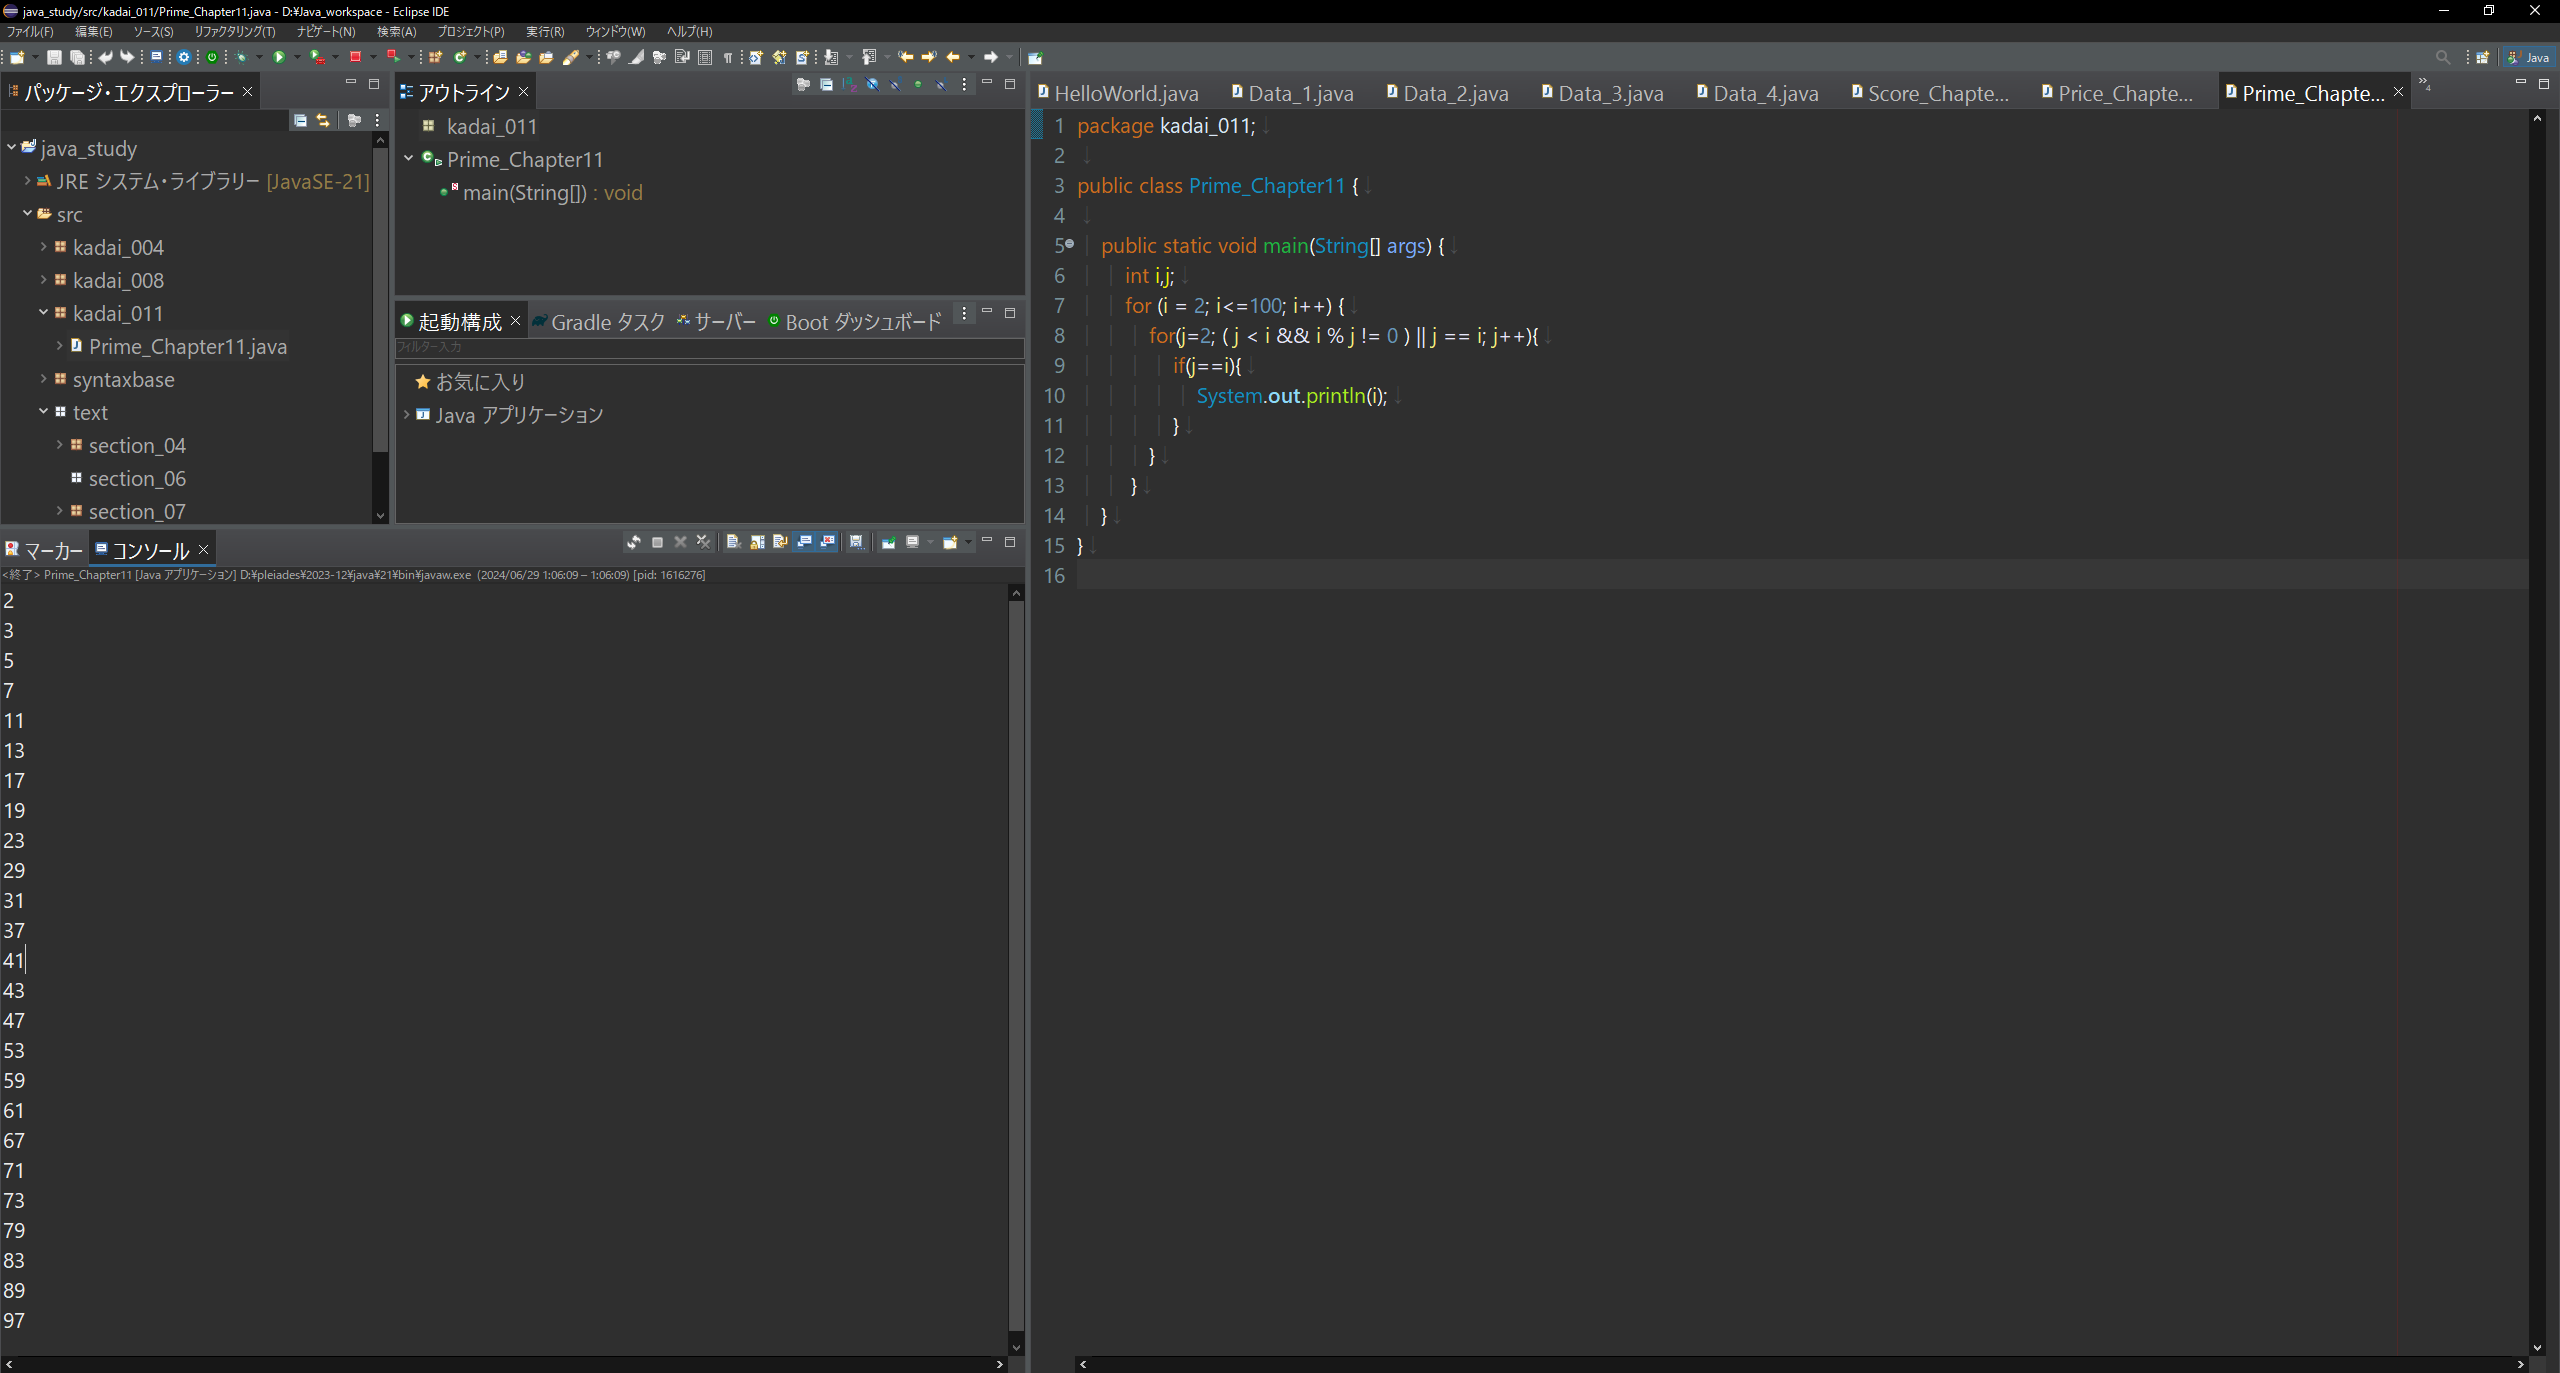
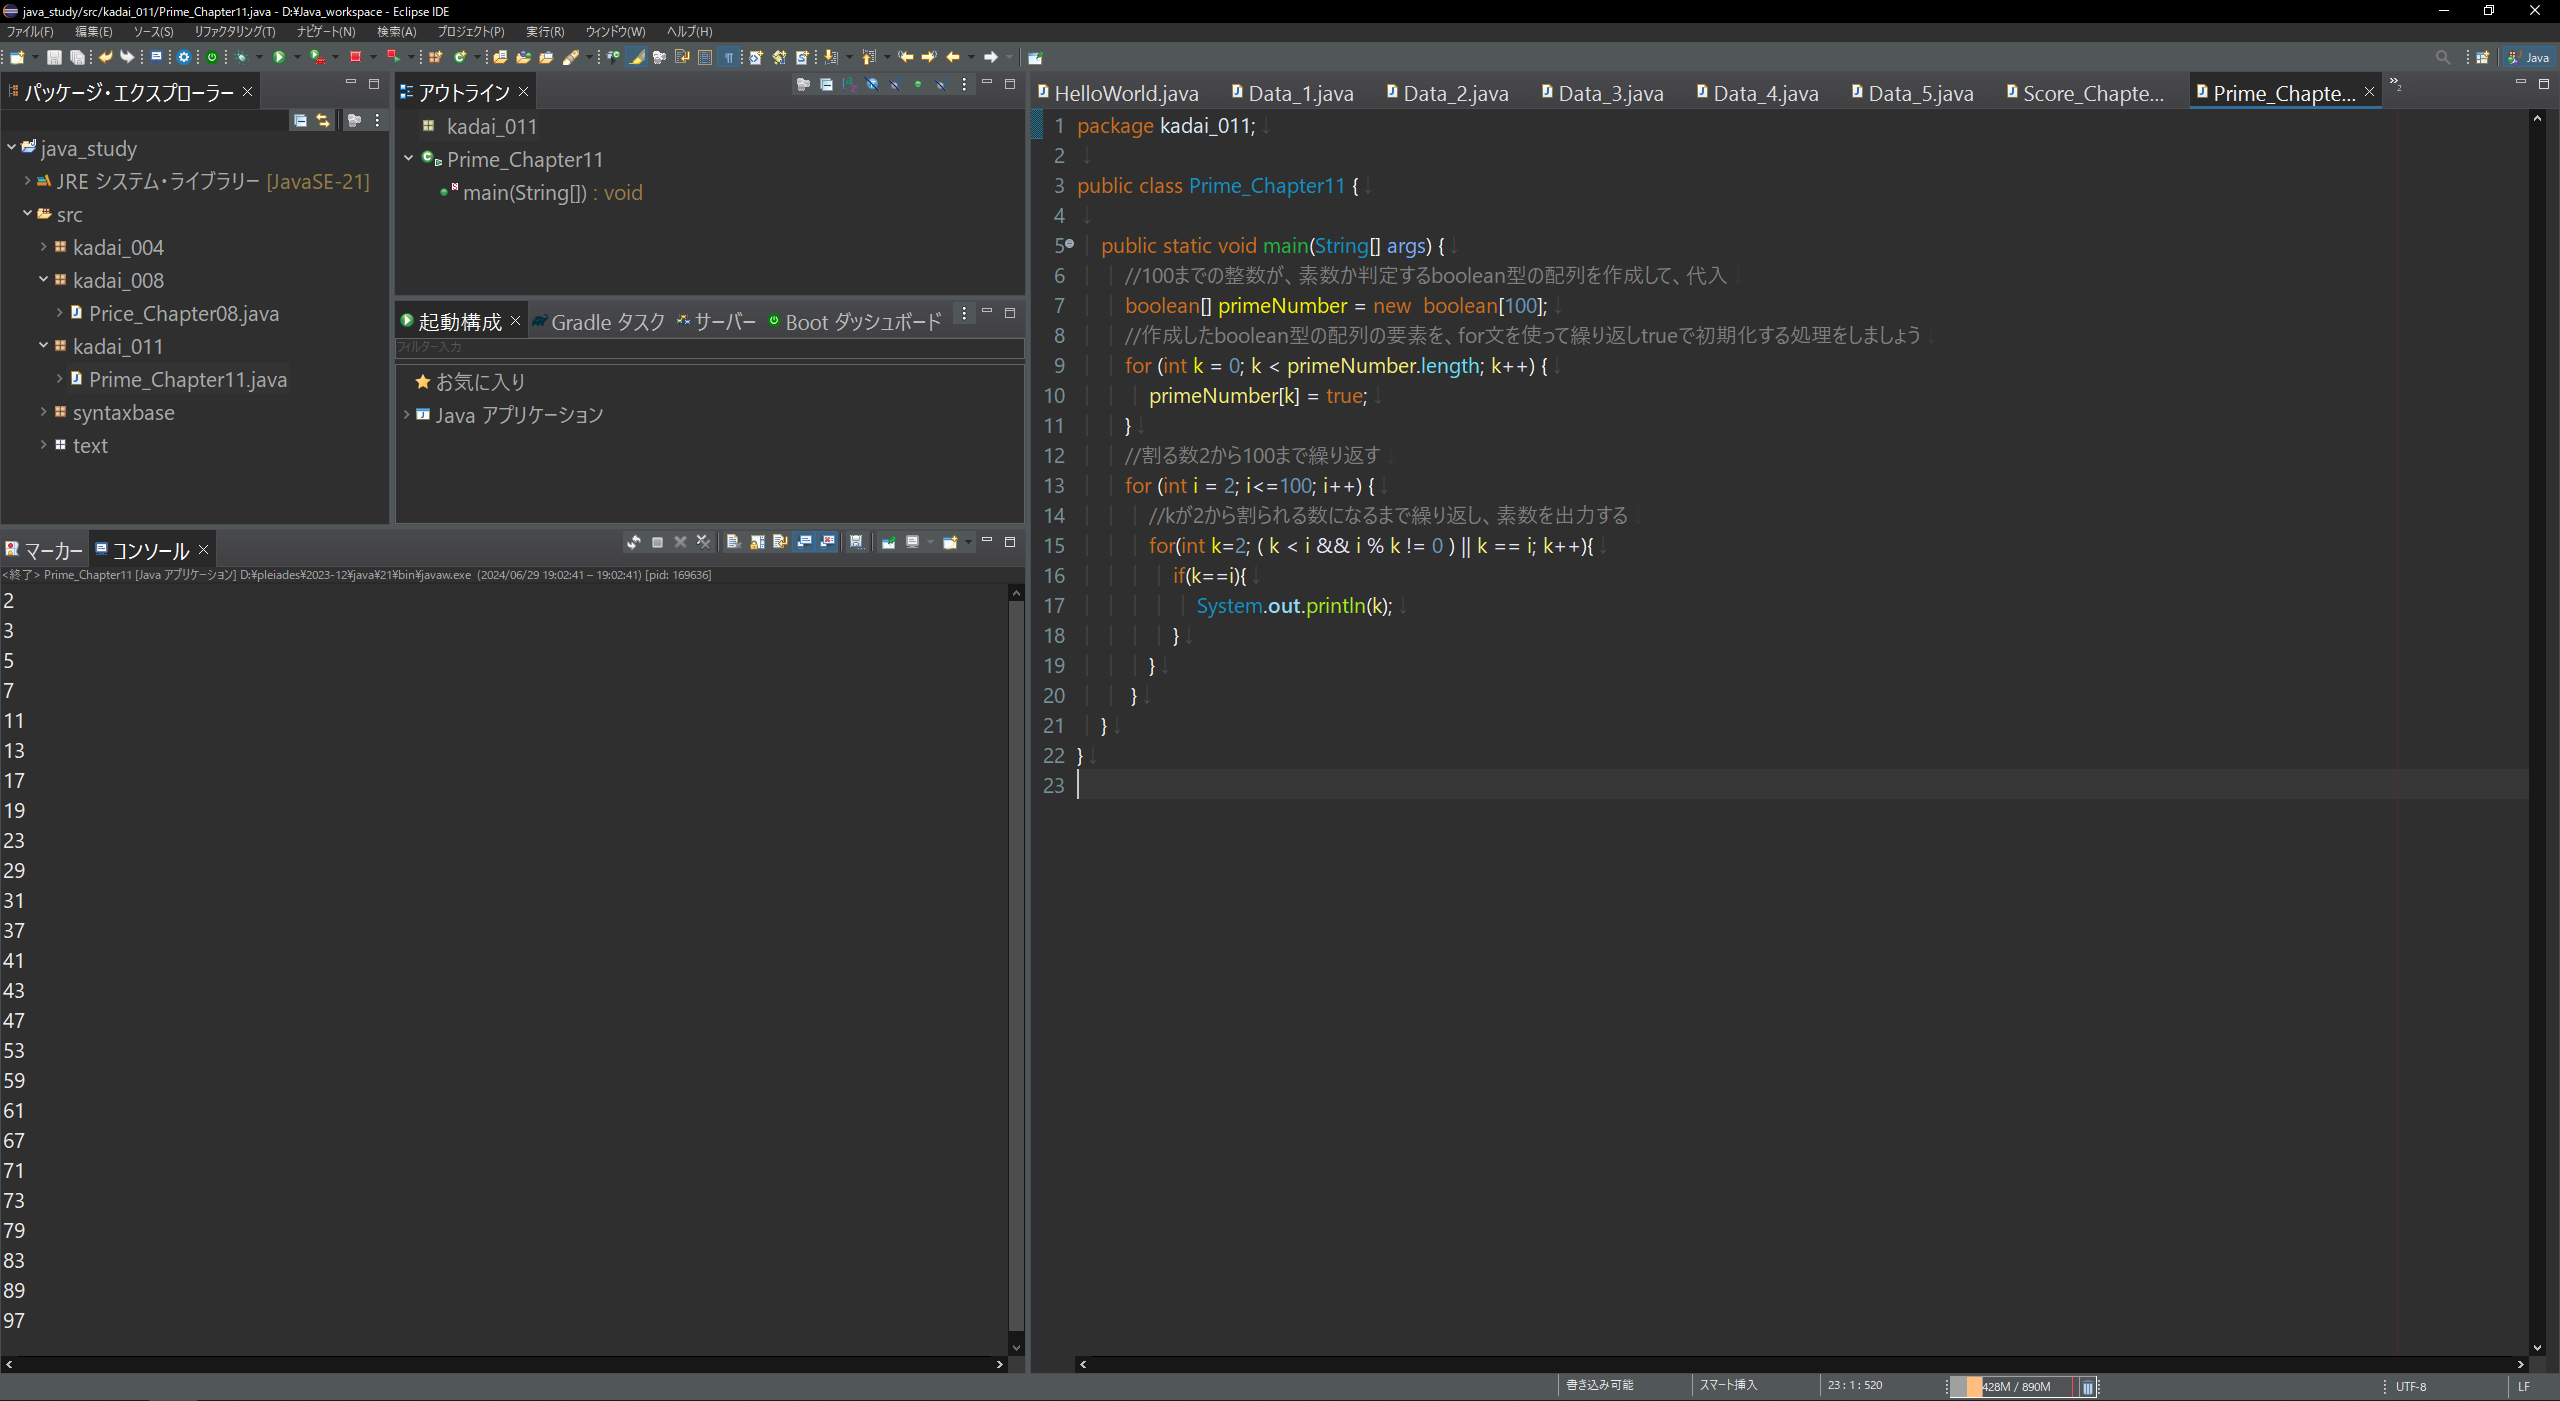
kadai_011を修正

diff --git a/kadai_011/Prime_Chapter11.java b/kadai_011/Prime_Chapter11.java
@@ -3,11 +3,18 @@ package kadai_011;
 public class Prime_Chapter11 {
 
 	public static void main(String[] args) {
-		int i,j;
-		for (i = 2; i<=100; i++) {
-			for(j=2; ( j < i && i % j != 0 ) || j == i; j++){
-				if(j==i){
-					System.out.println(i);
+		//100までの整数が、素数か判定するboolean型の配列を作成して、代入
+		boolean[] primeNumber = new  boolean[100];
+		//作成したboolean型の配列の要素を、for文を使って繰り返しtrueで初期化する処理をしましょう
+		for (int k = 0; k < primeNumber.length; k++) {
+			primeNumber[k] = true;
+		}
+		//割る数2から100まで繰り返す
+		for (int i = 2; i<=100; i++) {
+			//kが2から割られる数になるまで繰り返し、素数を出力する
+			for(int k=2; ( k < i && i % k != 0 ) || k == i; k++){
+				if(k==i){
+					System.out.println(k);
 				}
 			}
 		 }
